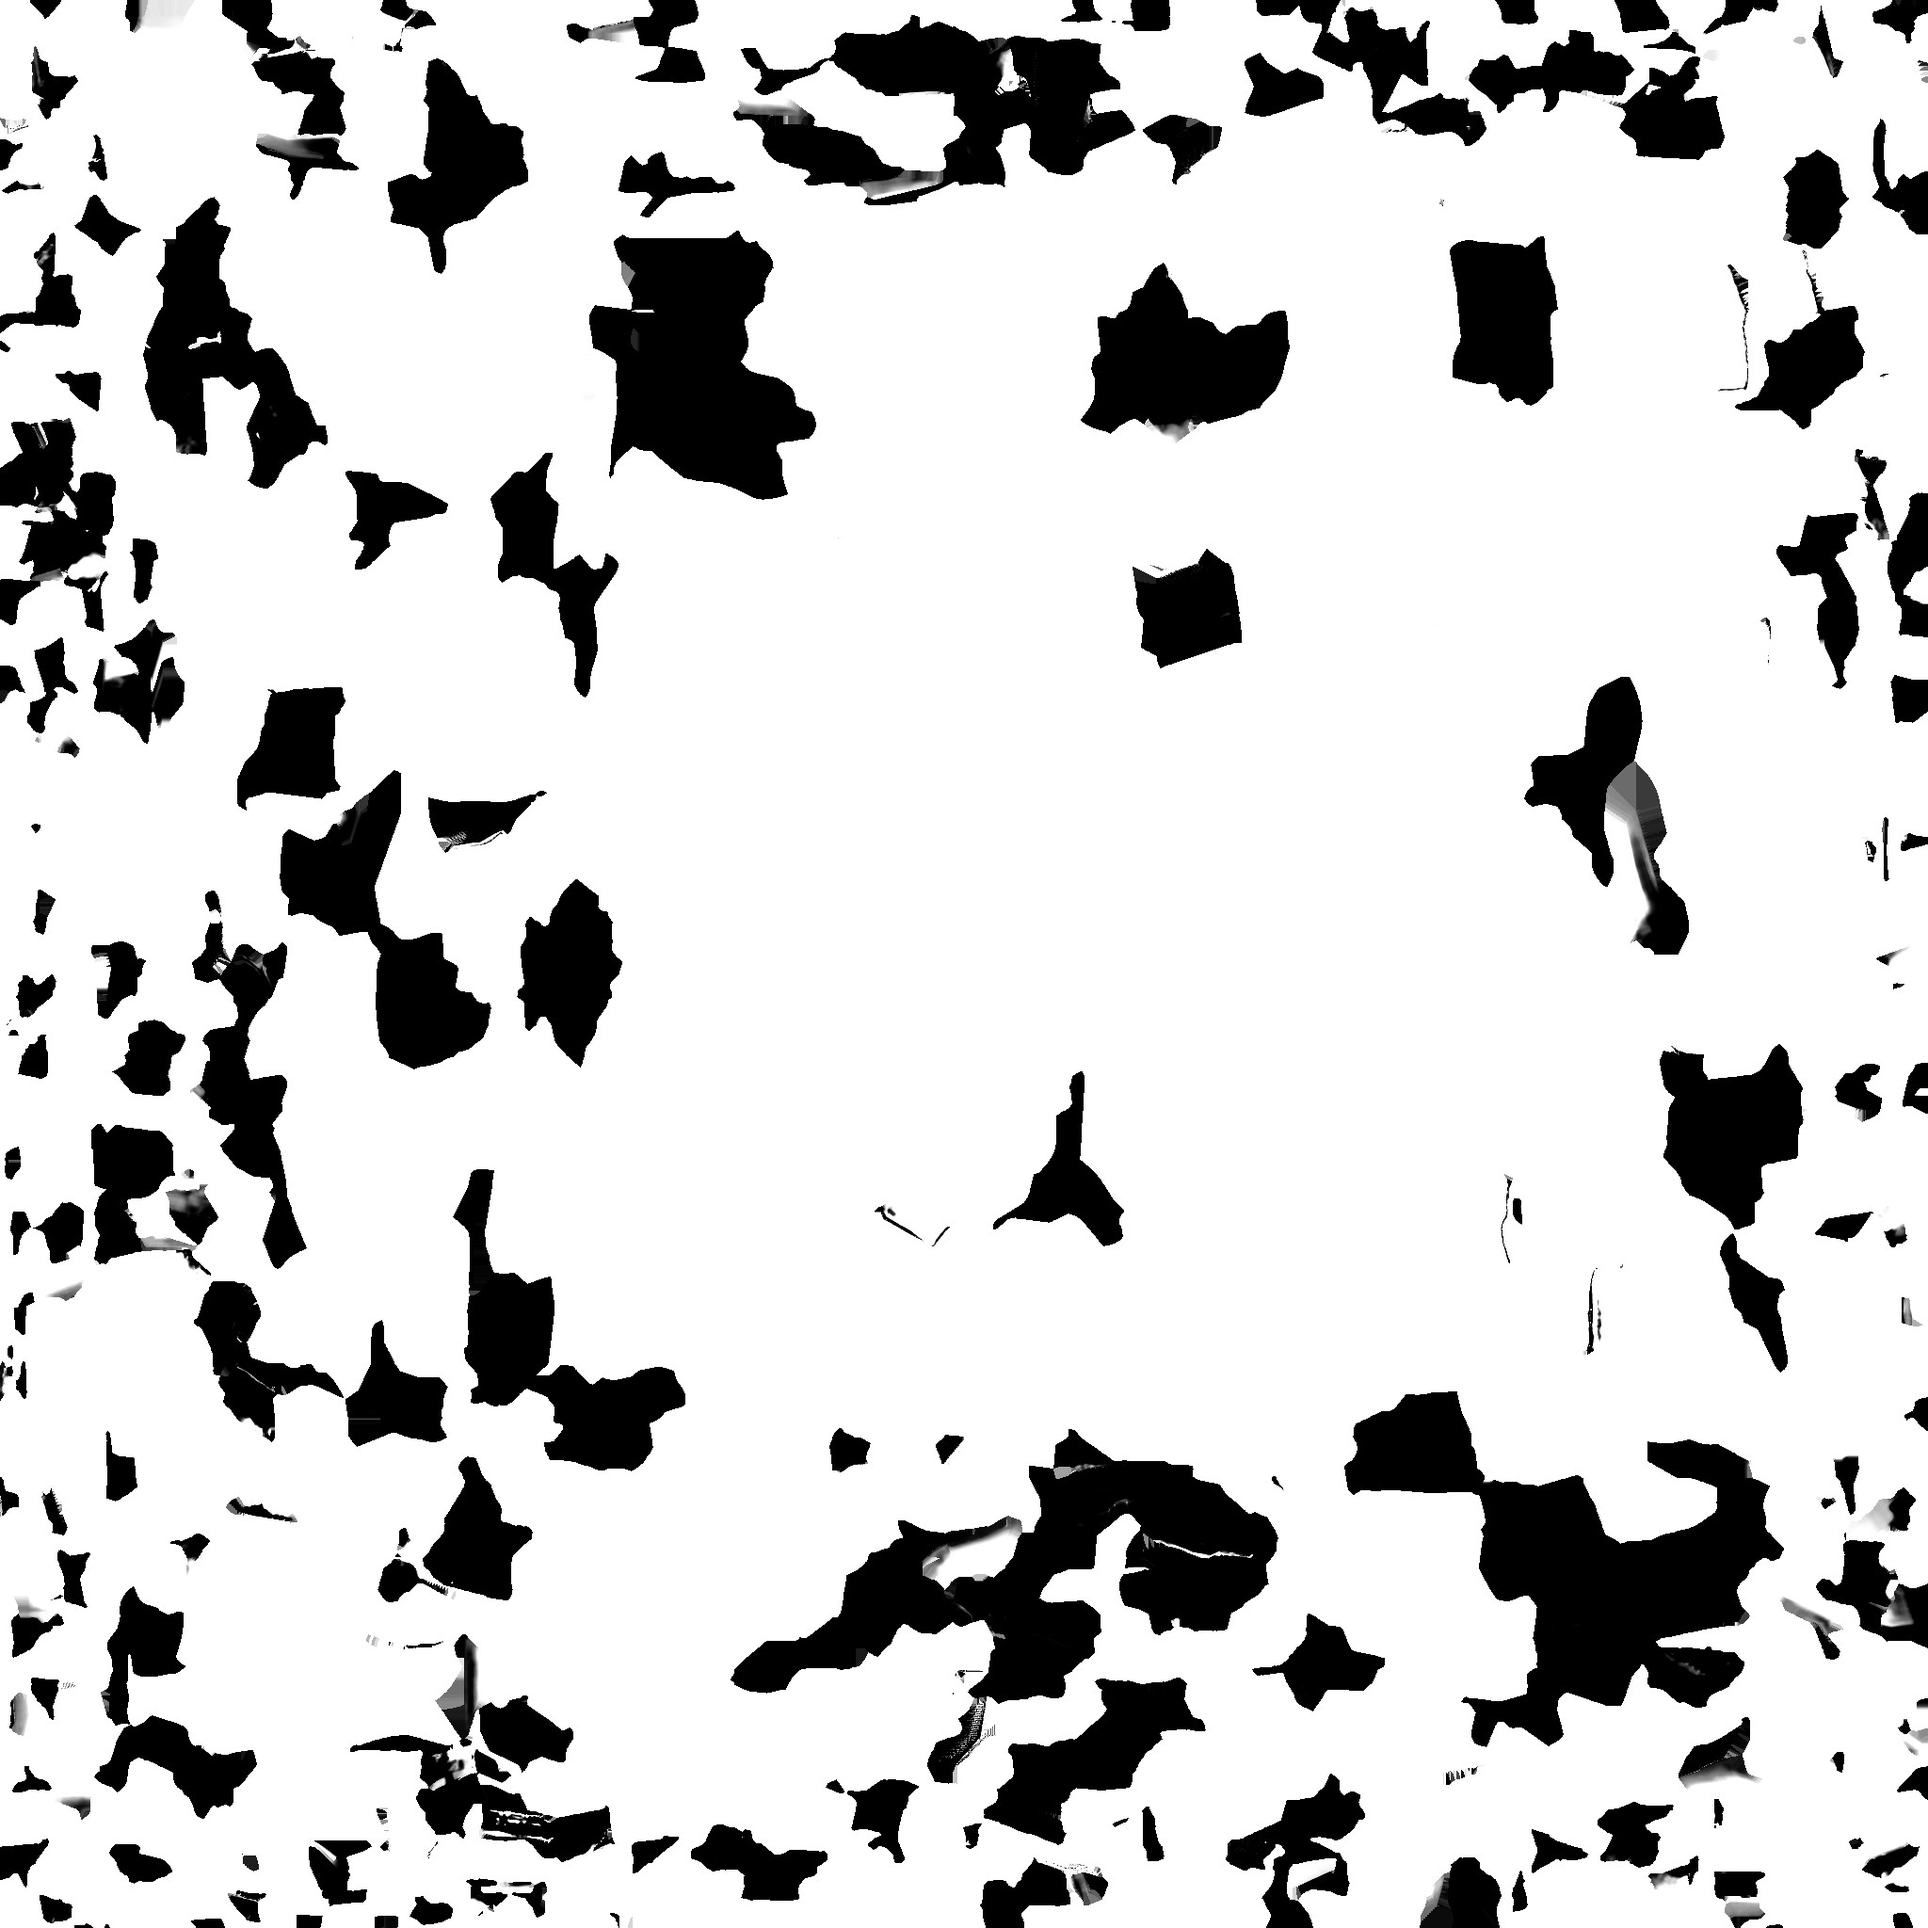
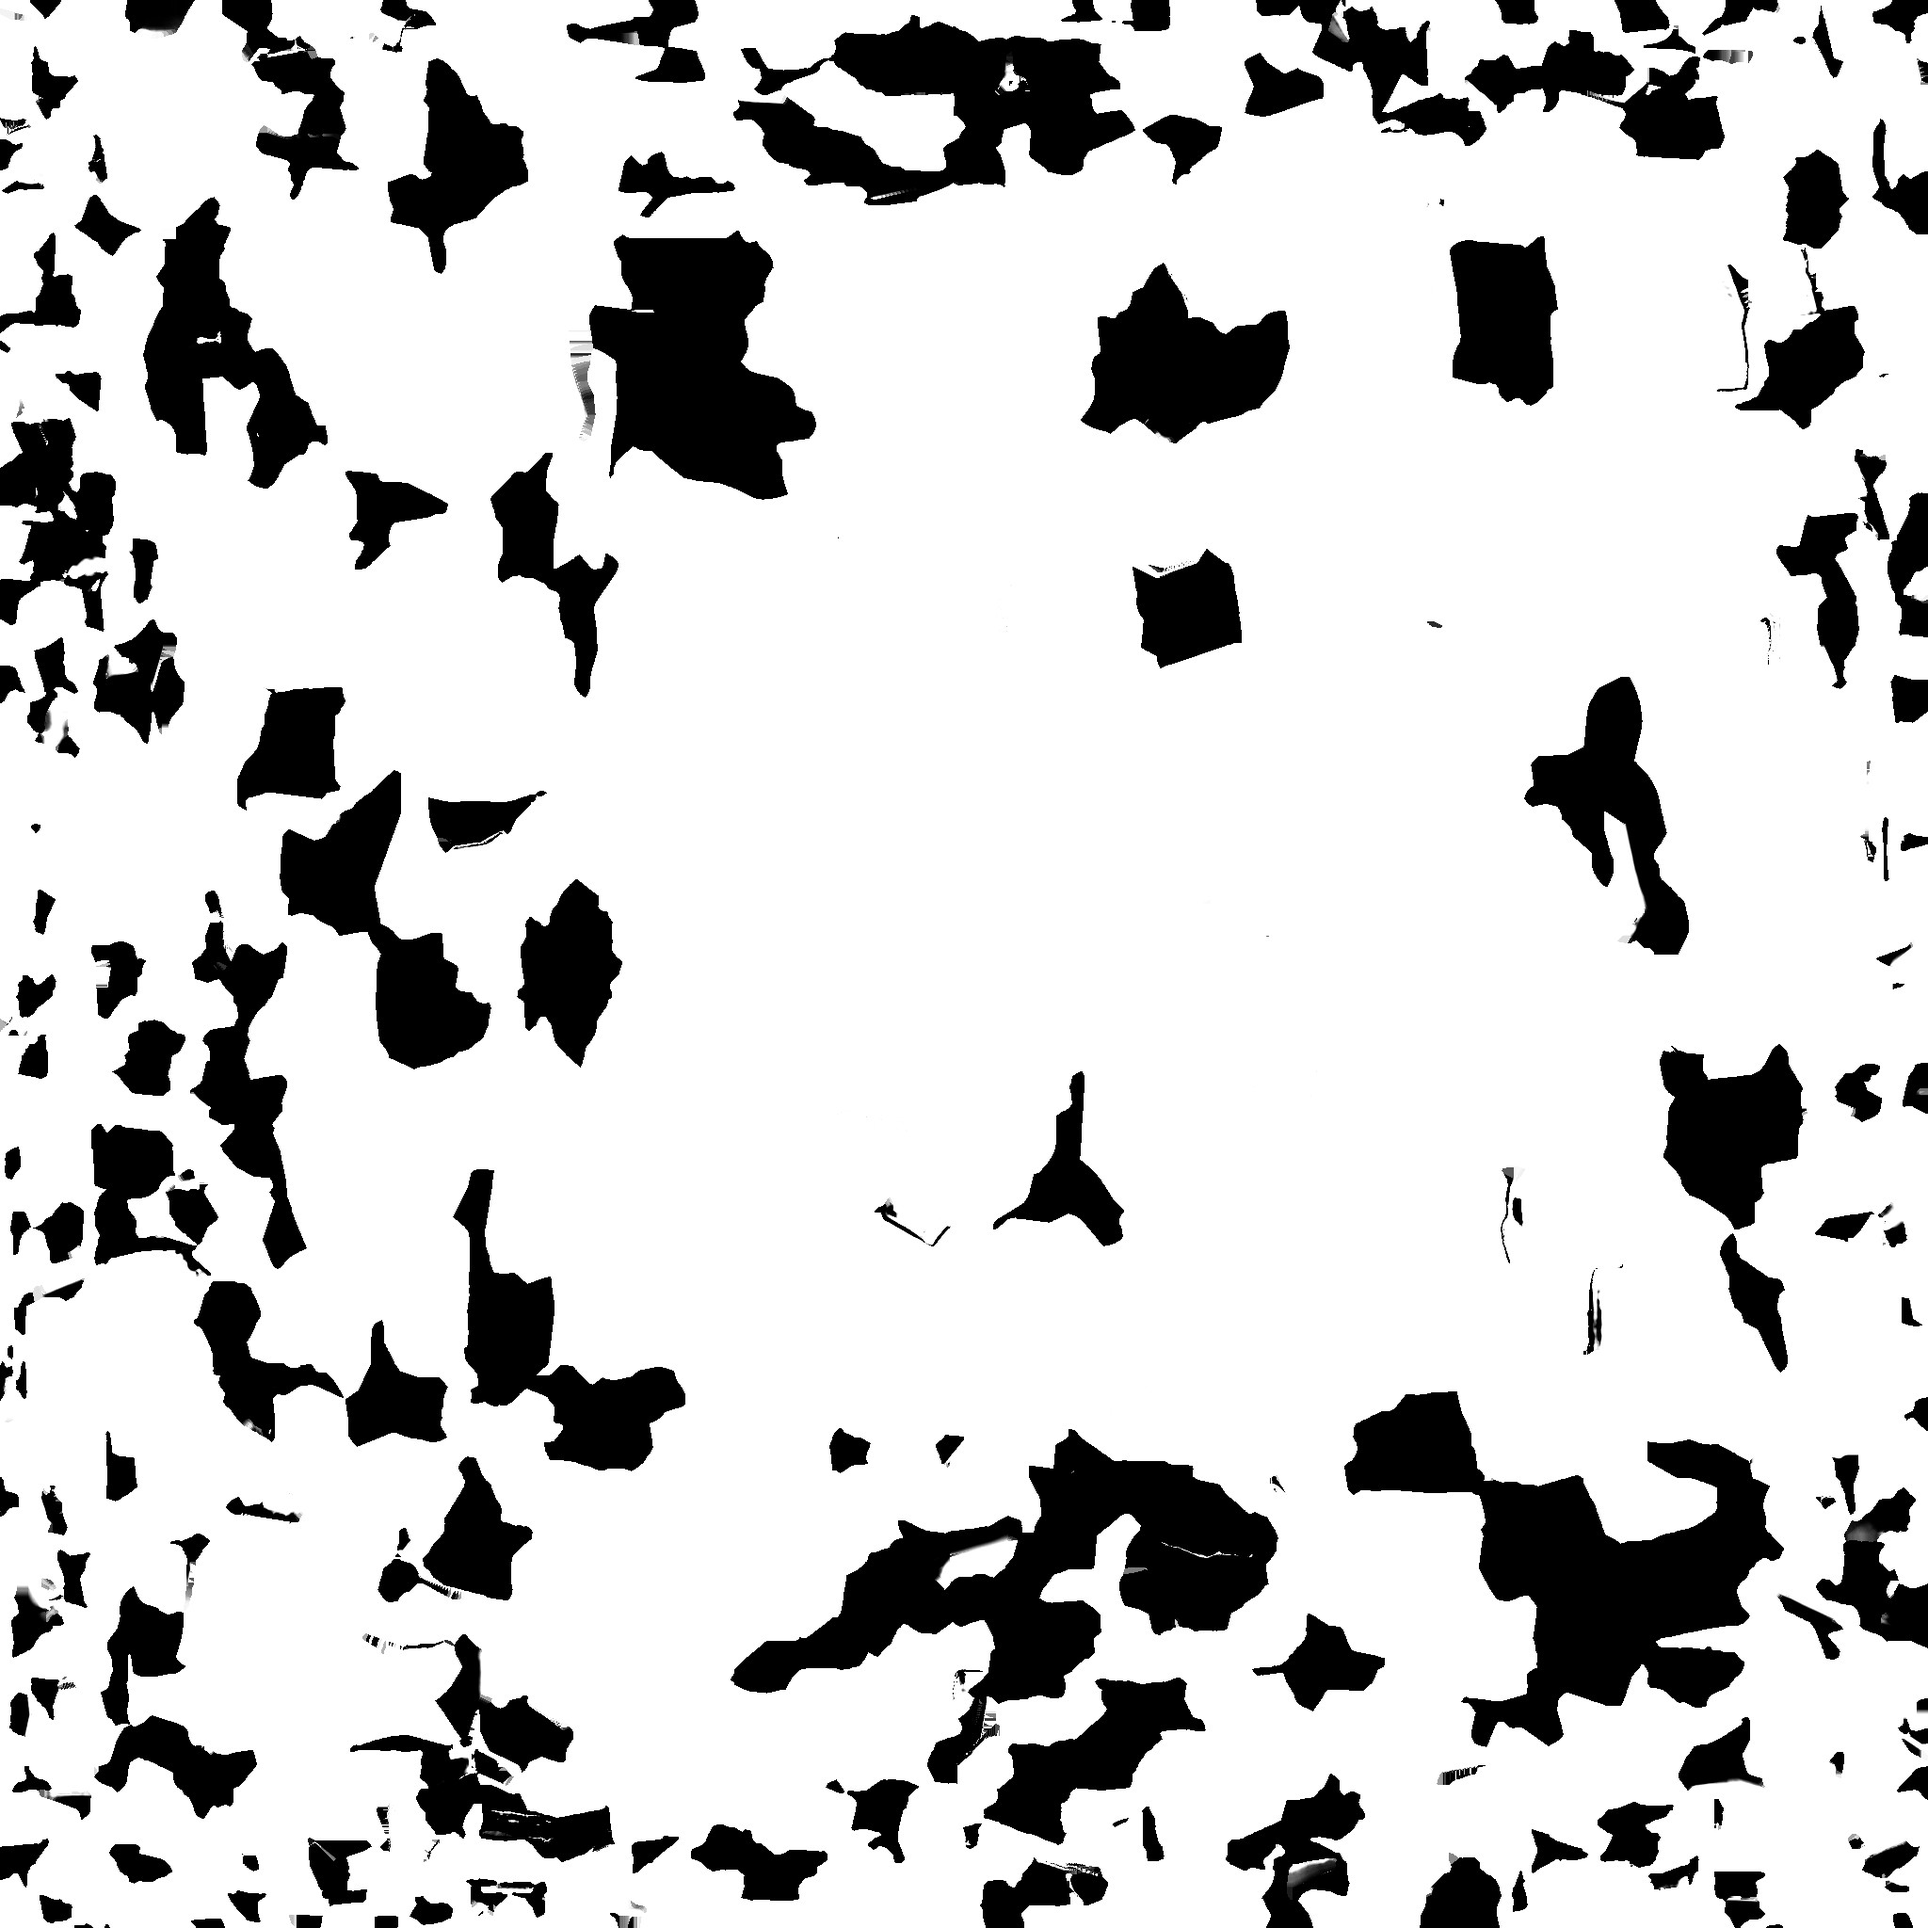
Table's black strips crisp, a room that zooms, a steady reflection
- convert_table.py: the mask of the texture's black parts is sharper
  (black below 0.3 luma, silver above 0.45), so the groove's strips are
  wholly black with no grey between.
- The room beyond the kal-toh is a room, not a picture on the glass:
  drawn nearer (or back), the eye nears its far wall too, 14 world
  units beyond the kal-toh, and it grows (or shrinks) about the line of
  sight as that wall would.
- The table's mirror pass is drawn without shadows: some phones'
  drivers, given the frame before's shadow map, drew the stone black in
  it every other frame while the jumble grew (headless Chromium logged
  the same sampler mismatch); now no GL errors at all.
- Pinching can draw the view nearer, or back no further than first
  framed, so the table's rough near edge stays out of sight.

Claude-Session: https://claude.ai/code/session_01CQSpDyMziA3C9B7p659SkK

diff --git a/kaltoh/android/app/src/main/assets/www/js/scene.js b/kaltoh/android/app/src/main/assets/www/js/scene.js
@@ -255,7 +255,7 @@ export async function loadEnvironment(stage) {
   scene.environmentRotation.copy(ROOM);
   blurred.mapping = THREE.EquirectangularReflectionMapping;
   stage.skyEnvironment = pmrem.fromEquirectangular(blurred).texture;
-  stage.sky = makeSky(blurred);
+  stage.sky = makeSky(blurred, stage.view);
   scene.add(stage.sky);
   pmrem.dispose();
   target.dispose();
@@ -268,13 +268,15 @@ export async function loadEnvironment(stage) {
 // everything. It is shown small - the panorama's turning and tilting from the eye's line of sight
 // taken WIDE times over - so that much of the room is on the screen and little enlarged, and
 // framed so that the bar where Picard sits stands up and to the right, clear of the kal-toh (BAR
-// at AT of the way from the screen's middle to its right and top edges). As the eye moves the room
-// shifts as one seen through a window would: what is scaled is each ray's angle from the line of
-// sight, which the eye's moving turns as it would any ray to a far wall.
+// at AT of the way from the screen's middle to its right and top edges). It is a real room, though,
+// not a picture on the glass: drawn nearer to the kal-toh, or back from it, the eye nears or leaves
+// its far wall too, FAR beyond the kal-toh, and the room grows or shrinks about the line of sight
+// as that wall would.
 const WIDE = 8;
 const AT = new THREE.Vector2(0.48, 0.45);
+const FAR = 14;
 const forward = new THREE.Vector3();
-function makeSky(texture) {
+function makeSky(texture, view) {
   const turn = new THREE.Matrix3().setFromMatrix4(new THREE.Matrix4().makeRotationFromEuler(ROOM)).transpose();
   const material = new THREE.ShaderMaterial({
     uniforms: {
@@ -335,6 +337,9 @@ function makeSky(texture) {
     const halfWide = Math.atan(Math.tan(halfHigh) * camera.aspect);
     material.uniforms.sight.value.set(heading, elevation);
     material.uniforms.shown.value.set(barHeading - WIDE * AT.x * halfWide, barElevation - WIDE * AT.y * halfHigh);
+    // How much nearer the far wall is than as first framed.
+    const near = view.distance * view.zoom * (1 - 0.3 * view.read.k);
+    material.uniforms.wide.value = (WIDE * (FAR + near)) / (FAR + view.distance);
   };
   return sky;
 }

diff --git a/kaltoh/android/app/src/main/assets/www/js/table.js b/kaltoh/android/app/src/main/assets/www/js/table.js
@@ -115,8 +115,10 @@ export async function loadTable(stage) {
   const table = { mesh, mirror: true, reflect };
 
   // Draw what the top mirrors, before the scene itself; `hidden`: what the mirror does not show
-  // (the room, which the table mirrors by its own lights, and the t'an on the glass). Before the
-  // scene has first been drawn (and its shadows with it) the mirror is only cleared.
+  // (the room, which the table mirrors by its own lights, and the t'an on the glass). It is drawn
+  // without shadows: softened in the mirror they are not missed, and some phones' drivers, given
+  // the shadow map of the frame before, drew the stone black in it every other frame. Before the
+  // scene has first been drawn the mirror is only cleared.
   function reflect(hidden) {
     const { renderer, scene, camera } = stage;
     if (!table.mirror) return;
@@ -131,8 +133,7 @@ export async function loadTable(stage) {
     const shown = hidden.map((o) => o.visible);
     mesh.visible = false;
     for (const o of hidden) o.visible = false;
-    const shadows = renderer.shadowMap.autoUpdate;
-    renderer.shadowMap.autoUpdate = false;
+    renderer.shadowMap.enabled = false;
     renderer.getClearColor(clear);
     const alpha = renderer.getClearAlpha();
     const before = renderer.getRenderTarget();
@@ -142,7 +143,7 @@ export async function loadTable(stage) {
     if (renderer.info.render.frame > 0) renderer.render(scene, eye);
     renderer.setRenderTarget(before);
     renderer.setClearColor(clear, alpha);
-    renderer.shadowMap.autoUpdate = shadows;
+    renderer.shadowMap.enabled = true;
     hidden.forEach((o, i) => (o.visible = shown[i]));
     mesh.visible = true;
   }

diff --git a/kaltoh/android/app/src/main/assets/www/js/input.js b/kaltoh/android/app/src/main/assets/www/js/input.js
@@ -16,7 +16,7 @@ const GRAB_MARGIN = 16; // a finger that only just misses the tray's t'an still 
 const TURN_RATE = 1.2; // half-turns per screen width
 const TAP_SLOP = 10;
 const TAP_TIME = 600; // a touch held still no longer than this is a tap
-const ZOOM = [0.45, 1.3];
+const ZOOM = [0.45, 1]; // drawn near, or back no further than first framed: the table's edge stays out of sight
 
 const axis = new THREE.Vector3();
 const right = new THREE.Vector3();

diff --git a/kaltoh/tools/convert_table.py b/kaltoh/tools/convert_table.py
@@ -111,7 +111,7 @@ def main(obj_path, tex_path, out_dir):
 
     texture = np.asarray(Image.open(tex_path).convert('RGB').resize((2048, 2048), Image.LANCZOS), float) / 255
     luma = texture @ [0.2126, 0.7152, 0.0722]
-    mask = np.clip((luma - 0.1) / (0.35 - 0.1), 0, 1)
+    mask = np.clip((luma - 0.3) / (0.45 - 0.3), 0, 1)
     mask = mask * mask * (3 - 2 * mask)
     Image.fromarray(np.round(mask * 255).astype('uint8'), 'L').save(f'{out_dir}/table.jpg', quality=90, optimize=True)
     print(meta)
